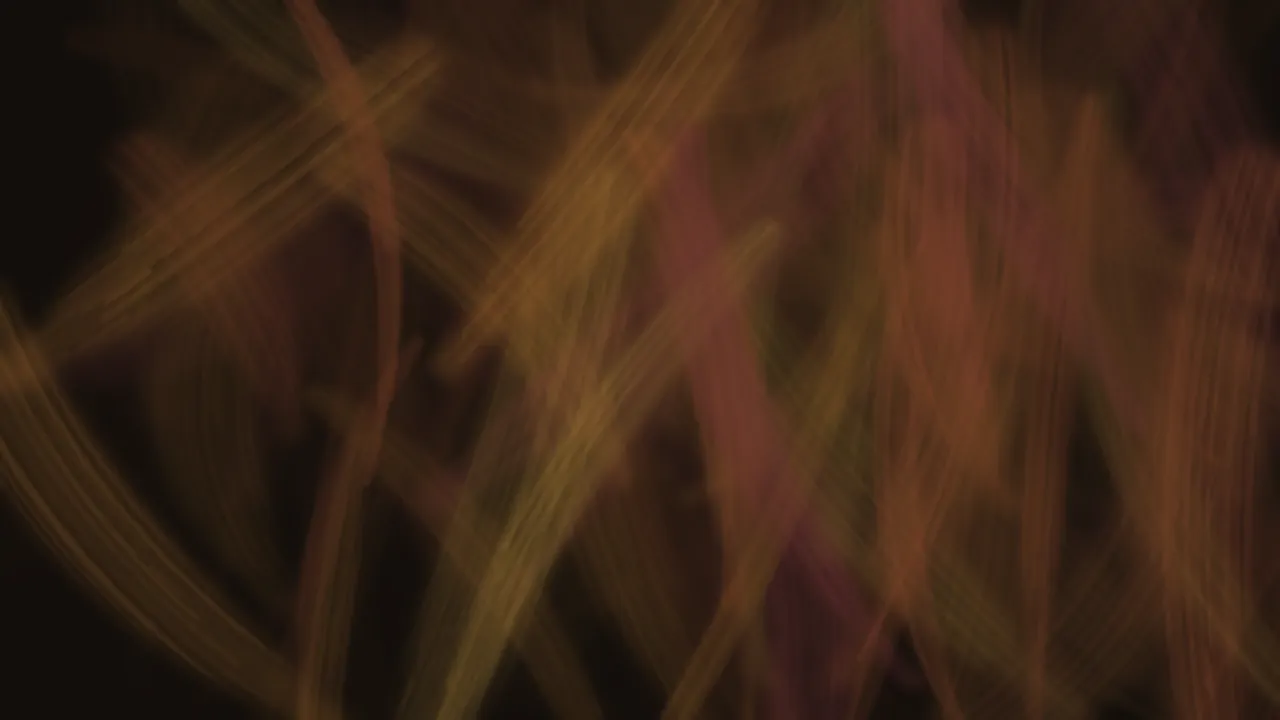
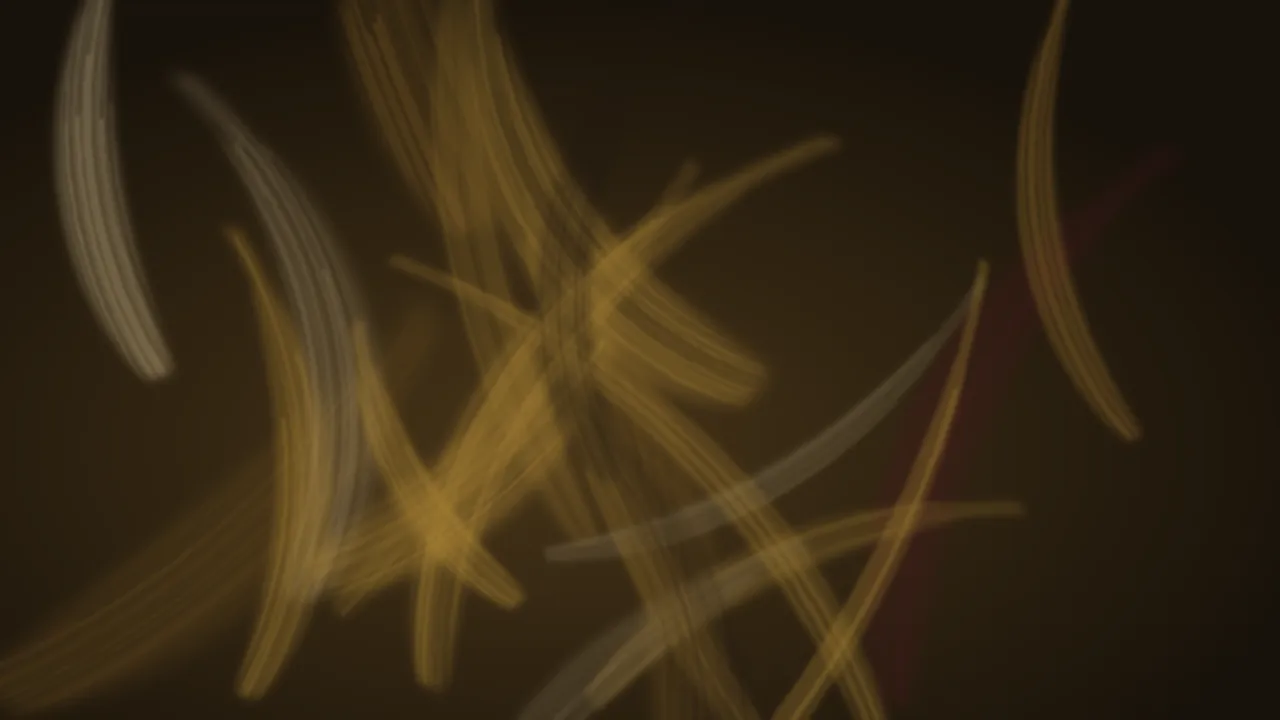
Site: analytics allowed by the CSP, a private contact, a legible painting (#5)
* Whisper Almanac site: analytics allowed by the CSP, a private contact, a legible painting

The after-deploy ship-review (sr_mwtbc2ijbhun) failed three things:
- the new CSP blocked Cloudflare's edge-injected Web Analytics beacon (a
  console error on every load, no visits counted): script-src and connect-src
  now allow exactly its two origins
- the only contact was a public YouTube comment: info@whisperalmanac.com now
  forwards to the brand inbox (Email Routing, her 18 Nov brand-mail ruling)
  and is in every footer and the privacy policy
- the hero painting read as an unrecognisable smear with rose strokes: now the
  gold-and-champagne Money painting, with a caption saying what it is
validate-site.mjs goes red if the CSP drops either analytics origin or any
footer loses its mailto contact.

Claude-Session: https://claude.ai/code/session_01CJ98gQuotzmQekevoSTPiy

* validate-site: CSP sources matched as exact tokens (Set), not a substring (CodeQL js/incomplete-url-substring-sanitization)

Claude-Session: https://claude.ai/code/session_01CJ98gQuotzmQekevoSTPiy

---------

diff --git a/public/index.html b/public/index.html
@@ -11,10 +11,10 @@
 <h1 class="mark">whisper almanac<svg viewBox="0 0 20 32" aria-hidden="true" focusable="false"><path fill="#E89B4C" d="M10 0C10 0 1 14 1 21a9 9 0 0 0 18 0C19 14 10 0 10 0Z"/><path fill="#FBE3B0" d="M10 12c0 0-4.5 7-4.5 11a4.5 4.5 0 0 0 9 0c0-4-4.5-11-4.5-11Z"/></svg></h1>
 <p class="lede">Nightly ASMR for sleep</p>
 <p class="tagline">Whisper yourself to sleep: manifest, learn, or just let go.</p>
-<figure><img src="/painting.webp" width="1280" height="720" alt="A dim, warm abstract painting in amber, umber and deep rose: the slow painting made for one of the channel's manifesting videos" fetchpriority="high"></figure>
-<p>Long whispered videos to fall asleep to: guided meditations built on Neville Goddard's techniques, money affirmations, and slow, sleepy history and science. The newest manifesting videos play over a slow painting; the rest over dim, calm footage.</p>
+<figure><img src="/painting.webp" width="1280" height="720" alt="Soft gold and champagne brush strokes crossing a near-black canvas" fetchpriority="high"><figcaption>A still from the slow painting made for a money affirmations video. Each stroke fades in over a few seconds, nothing else moves.</figcaption></figure>
+<p>Long whispered videos to fall asleep to: guided meditations built on Neville Goddard's techniques, money affirmations, and slow, sleepy history and science. From 23 November, new manifesting videos play over a slow painting like this one; the rest play over dim, calm footage.</p>
 <p>Every video is narrated by an AI copy of the creator's own whispering voice, and YouTube marks each one as altered content.</p>
 <a class="btn" href="https://www.youtube.com/@whisperalmanac">Watch on YouTube</a>
-<footer><a href="/privacy/">Privacy policy</a> · © 2026 Spry Labs</footer>
+<footer><a href="mailto:info@whisperalmanac.com">info@whisperalmanac.com</a> · <a href="/privacy/">Privacy policy</a> · ©&nbsp;2026&nbsp;Spry&nbsp;Labs</footer>
 </main></body>
 </html>

diff --git a/public/privacy/index.html b/public/privacy/index.html
@@ -15,5 +15,5 @@
 <li>What it stores: a sign-in token for the Whisper Almanac channel, kept privately on the creator's computer and build service. It is never sold or shared.</li>
 <li>Its use of information received from Google APIs follows the <a href="https://developers.google.com/terms/api-services-user-data-policy">Google API Services User Data Policy</a>, including the Limited Use requirements.</li></ul>
 <p>Videos are also subject to <a href="https://www.youtube.com/t/terms">YouTube's Terms of Service</a> and <a href="https://policies.google.com/privacy">Google's Privacy Policy</a>.</p>
-<p>Questions about this policy: leave a comment on any <a href="https://www.youtube.com/@whisperalmanac/videos">Whisper Almanac video</a>.</p>
-<footer><a href="/">Home</a> · © 2026 Spry Labs</footer></main></body></html>
+<p>Questions about this policy, or a request about your data: email <a href="mailto:info@whisperalmanac.com">info@whisperalmanac.com</a>.</p>
+<footer><a href="/">Home</a> · <a href="mailto:info@whisperalmanac.com">info@whisperalmanac.com</a> · ©&nbsp;2026&nbsp;Spry&nbsp;Labs</footer></main></body></html>

diff --git a/public/site.css b/public/site.css
@@ -14,6 +14,7 @@ main{max-width:40rem;margin:0 auto;padding:3.5rem 1rem 2.5rem}
 p,li{color:var(--soft)}
 a{color:var(--ember);text-underline-offset:.18em}
 figure{margin:0 0 1.75rem}
+figcaption{margin:.6rem 0 0;font-size:.9375rem;color:var(--soft)}
 figure img{display:block;width:100%;height:auto;aspect-ratio:16/9;border-radius:.75rem;background:var(--glow)}
 .btn{display:inline-flex;align-items:center;justify-content:center;min-height:3rem;margin:.75rem 0 0;padding:.75rem 1.75rem;border-radius:999px;background:var(--ember);color:var(--candle-dark);font-weight:400;font-size:1.0625rem;text-decoration:none}
 .btn:hover,.btn:focus-visible{background:#F0AC66}

diff --git a/public/404.html b/public/404.html
@@ -10,6 +10,6 @@
 <p class="tagline">The link may be old or mistyped. Everything lives on the home page and the channel.</p>
 <a class="btn" href="/">Back to the home page</a>
 <p><a href="https://www.youtube.com/@whisperalmanac">Watch on YouTube</a></p>
-<footer><a href="/privacy/">Privacy policy</a> · © 2026 Spry Labs</footer>
+<footer><a href="mailto:info@whisperalmanac.com">info@whisperalmanac.com</a> · <a href="/privacy/">Privacy policy</a> · ©&nbsp;2026&nbsp;Spry&nbsp;Labs</footer>
 </main></body>
 </html>
